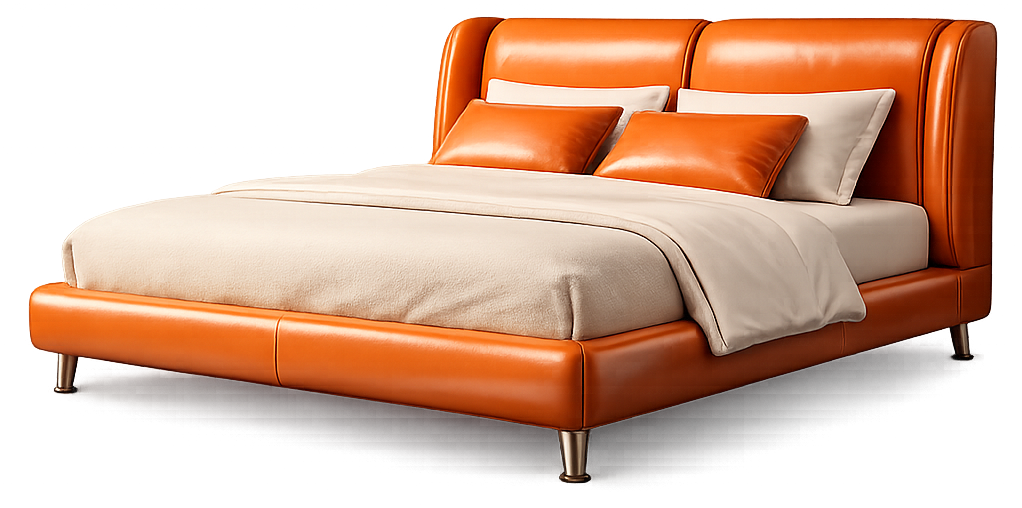
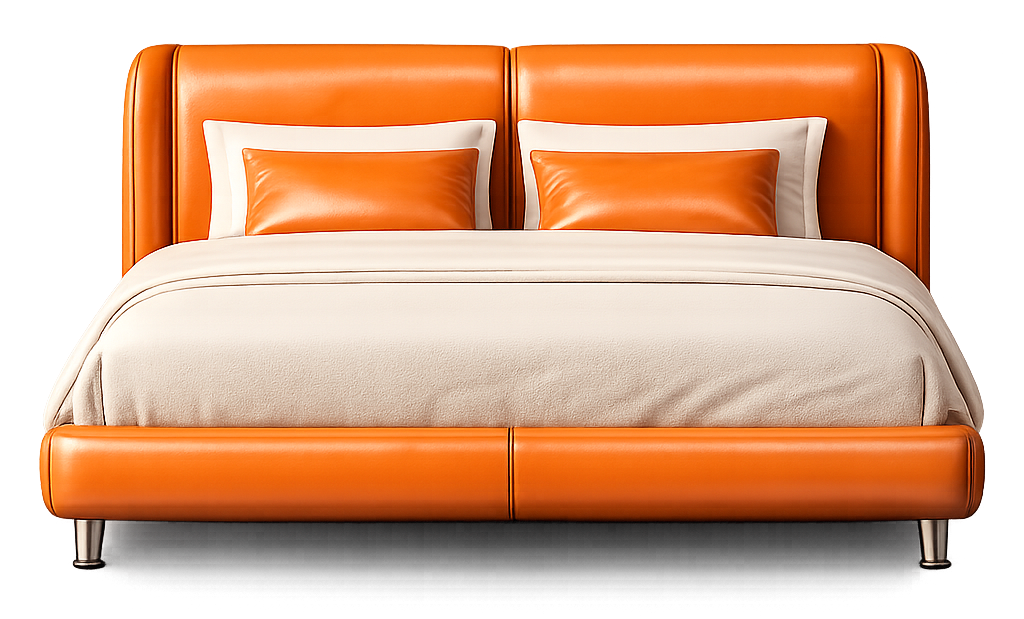
assets refactoring

diff --git a/src/cms/synced-content.ts b/src/cms/synced-content.ts
@@ -3,7 +3,7 @@
 // Do not edit manually. Re-run `npm run cms:pull` after CMS changes.
 
 export const syncedContentMeta = {
-  "syncedAt": "2026-07-21T22:00:34.227Z",
+  "syncedAt": "2026-07-21T22:59:51.134Z",
   "source": "sanity",
   "projectId": "nzfscoez",
   "dataset": "production",
@@ -201,22 +201,22 @@ export const syncedSiteSettings = {
   "headerCtaLabel": "Get a quote",
   "heroMedia": [
     {
-      "description": "Mechanisms, frames, and powered accessories for modern seating builds.",
-      "eyebrow": "Live stock focus",
-      "image": "https://cdn.sanity.io/images/nzfscoez/production/b0acd4b39600a872d82f59d8b106191860017331-992x1403.jpg",
-      "title": "Sofas"
+      "description": "Discover our premium selection of modern seating designed for unparalleled comfort and style.",
+      "eyebrow": "New Collection",
+      "image": "https://cdn.sanity.io/images/nzfscoez/production/7dee833edc893611403543272e98b9c5b75e64cd-1024x1536.png",
+      "title": "Modern"
     },
     {
-      "description": "Fancy legs, premium sofa legs, and finish-led details for visible styling.",
-      "eyebrow": "Decorative range",
-      "image": "https://cdn.sanity.io/images/nzfscoez/production/e972f300de6cd29fb1fa7167d73434c757819a96-992x1364.jpg",
-      "title": "Beds"
+      "description": "Handcrafted sofas built to elevate your living spaces with premium fabrics and timeless design.",
+      "eyebrow": "Luxury Living",
+      "image": "https://cdn.sanity.io/images/nzfscoez/production/45ba52b9777dc9d323746e136fcaa7d40eb27072-1024x504.png",
+      "title": "Comfort"
     },
     {
-      "description": "Staplers, springs, trims, and materials used in daily upholstery production.",
-      "eyebrow": "Workshop supply",
-      "image": "https://cdn.sanity.io/images/nzfscoez/production/ff00a0dbd609987bbb2b9b31be073c9bf414365c-992x1403.jpg",
-      "title": "Materials"
+      "description": "Elegant bed frames crafted for restful spaces — where quality meets lasting style.",
+      "eyebrow": "Premium Beds",
+      "image": "https://cdn.sanity.io/images/nzfscoez/production/0535738aa1e3829d20ec8641b4bfcf1d24e5900d-1024x619.png",
+      "title": "Serene"
     }
   ],
   "homeBrandsDescription": "Unique Sofa World Furniture serves walk-in buyers, workshop restocking, and project enquiries from our store location.",

diff --git a/src/data/site.ts b/src/data/site.ts
@@ -585,15 +585,15 @@ export const HERO_MEDIA = [
     image: "/heroChair.png",
   },
   {
-    eyebrow: "Luxury Living",
-    title: "Comfort",
-    description: "Handcrafted sofas built to elevate your living spaces with premium fabrics and timeless design.",
+    eyebrow: "Exclusive Range",
+    title: "Luxury",
+    description: "Handcrafted pieces built to elevate your living spaces with premium fabrics and timeless design.",
     image: "/sofa.png",
   },
   {
-    eyebrow: "Premium Beds",
-    title: "Serene",
-    description: "Elegant bed frames crafted for restful spaces — where quality meets lasting style.",
+    eyebrow: "Sleep Elegance",
+    title: "Comfort",
+    description: "Transform your bedroom into a sanctuary of peace with our artisan-crafted beds.",
     image: "/bed.png",
   },
 ];